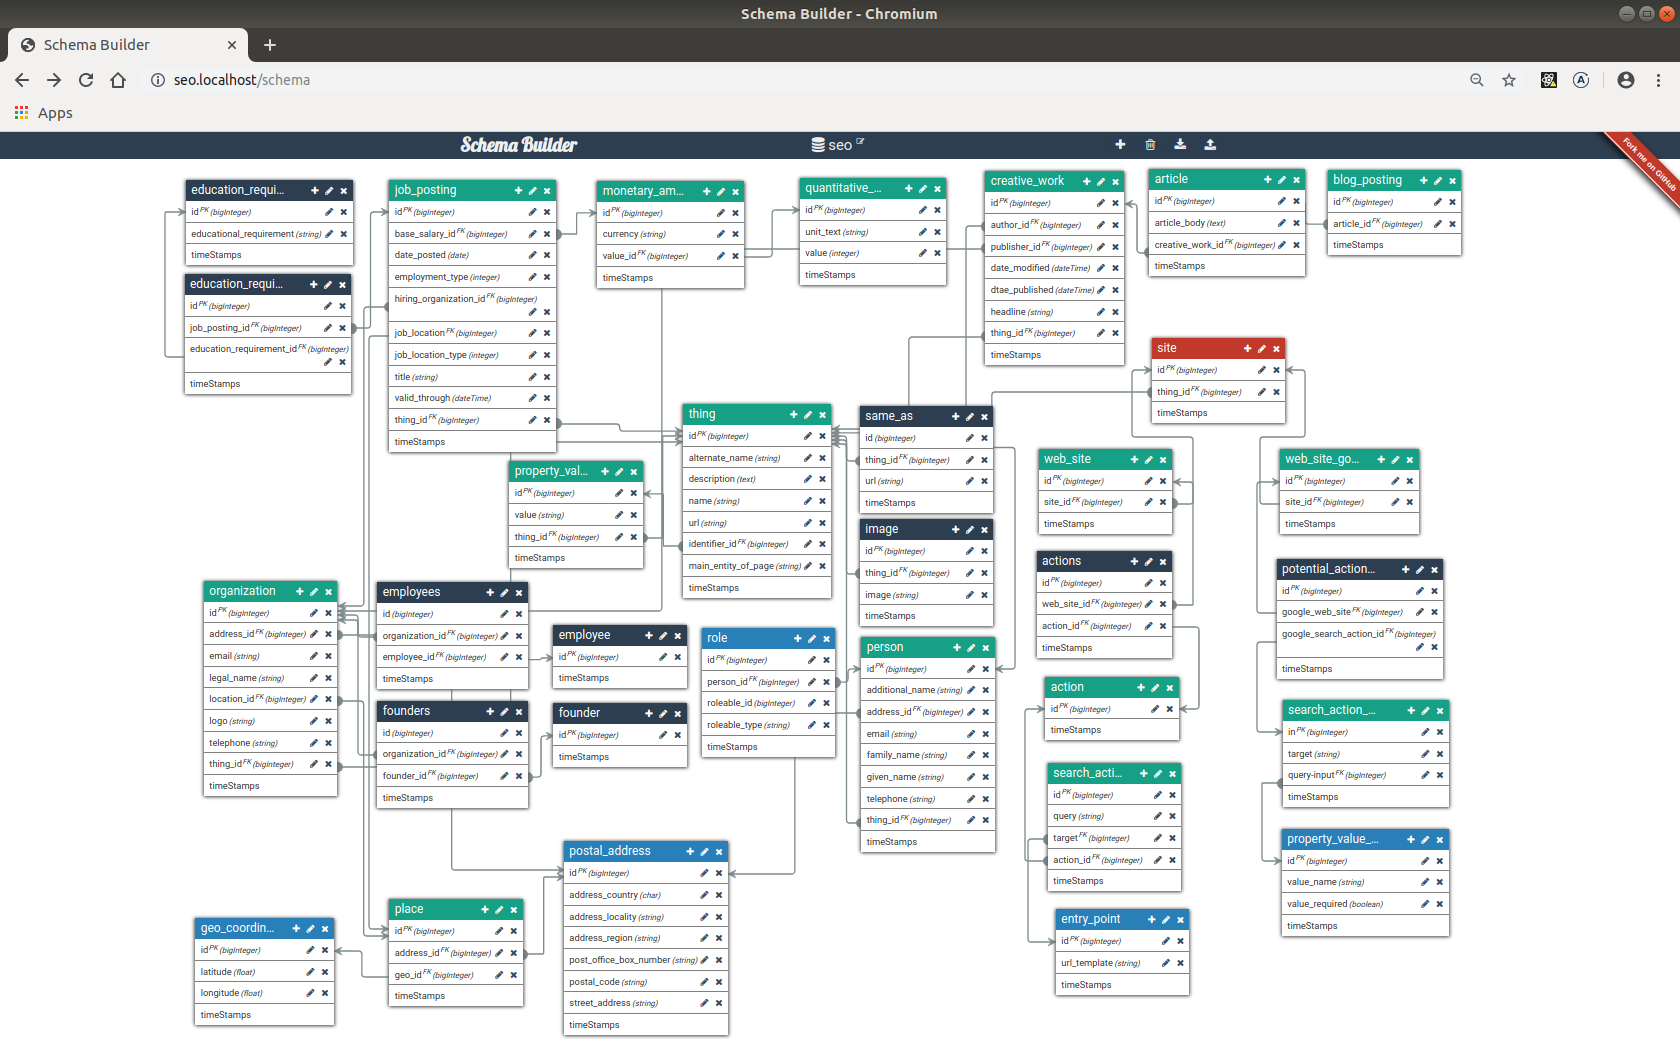
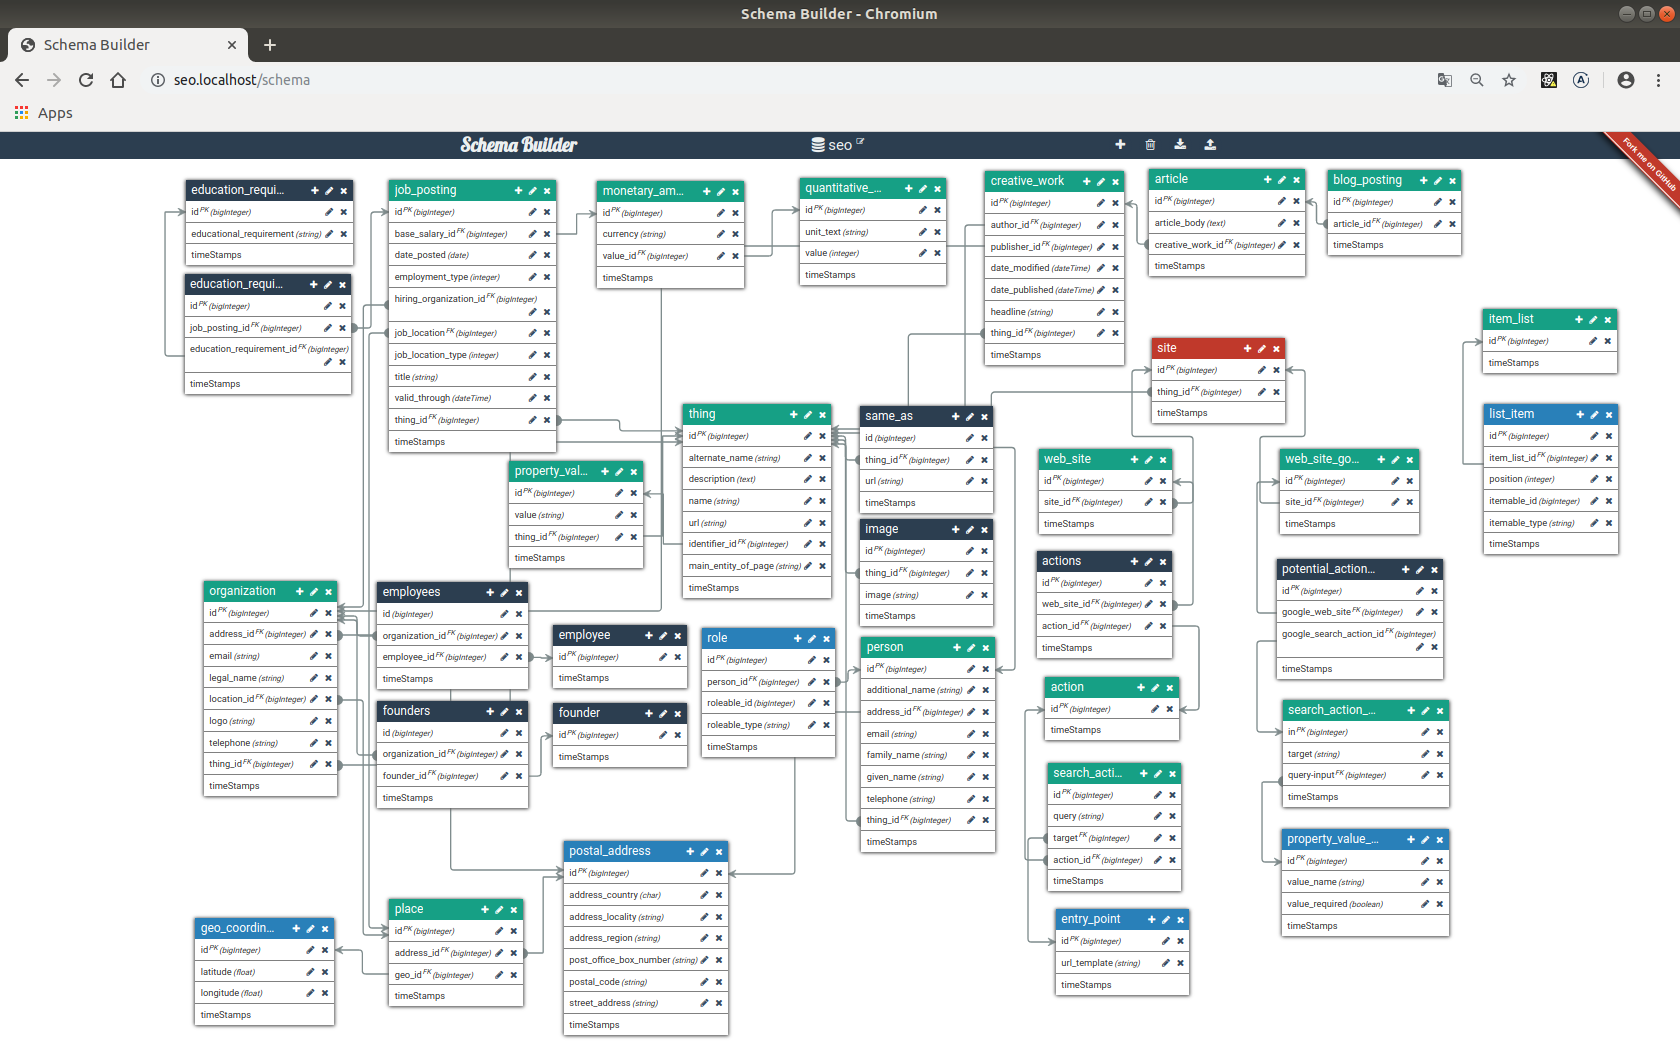
Carousel summary

diff --git a/app/Models/ItemList.php b/app/Models/ItemList.php
@@ -1,0 +1,37 @@
+<?php
+
+namespace App\Models;
+
+use App\Models\Traits\JsonLd;
+use Spatie\SchemaOrg\Schema;
+
+class ItemList extends \App\Models\Base\ItemList
+{
+	use JsonLd;
+
+	public function getSchemaOrgSchemaAttribute()
+	{
+        $listItems = [];
+        foreach($this->list_items()->orderBy('position','asc')->get() as $listItem) {
+            $item = $listItem->itemable;
+            if ($item) {
+                // @todo this should be morphable
+                $url = $listItem->itemable->article->creative_work->thing->main_entity_of_page;
+                $listItems[] = Schema::ListItem()
+                    ->position($listItem->position)
+                    // Thing
+                    ->url($url)
+                ;
+            }
+        }
+
+        return $this->getSchemaOrgNodeIdentifierSchemaAttribute('ItemList', true)
+            ->itemListElement($listItems)
+		;
+	}
+
+	public function getSchemaOrgSchema()
+	{
+		return $this->getSchemaOrgSchemaAttribute();
+	}
+}

diff --git a/routes/web.php b/routes/web.php
@@ -10,6 +10,7 @@
 | contains the "web" middleware group. Now create something great!
 |
 */
+Route::get('/carousel_summary/{itemList}/{field}', 'CarouselSummaryController@field');
 Route::get('/blog_posting/{blog_posting}/{field}', 'BlogPostingController@field');
 Route::get('/job_posting/{job_posting}/{field}', 'JobPostingController@field');
 Route::get('/organization/{organization}/address/{field}', 'OrganizationController@address');

diff --git a/app/Http/Controllers/CarouselSummaryController.php b/app/Http/Controllers/CarouselSummaryController.php
@@ -1,0 +1,14 @@
+<?php
+
+namespace App\Http\Controllers;
+
+use App\Models\ItemList;
+use App\Events\MyEvent;
+
+class CarouselSummaryController extends Controller
+{
+    public function field(ItemList $itemList, String $field)
+    {
+        return $itemList->$field ?? 'not found';
+    }
+}

diff --git a/app/Models/ListItem.php b/app/Models/ListItem.php
@@ -1,0 +1,19 @@
+<?php
+
+namespace App\Models;
+
+class ListItem extends \App\Models\Base\ListItem
+{
+	protected $fillable = [
+		'item_list_id',
+		'position',
+		'itemable_id',
+		'itemable_type'
+	];
+
+
+	public function itemable()
+	{
+		return $this->morphTo();
+	}
+}

diff --git a/readme.md b/readme.md
@@ -27,8 +27,10 @@ See the output
 
 ```chrome view-source: http://seo.localhost/```
 - [Article](https://developers.google.com/search/docs/data-types/article)
-    - [blog_posting/2/schema_org](https://raw.githubusercontent.com/noud/seo/master/database/output/duodeka.blog_posting.2.json)
-    - [blog_posting/3/schema_org](https://raw.githubusercontent.com/noud/seo/master/database/output/duodeka.blog_posting.3.json)
+    - [blog_posting/2/schema_org](https://raw.githubusercontent.com/noud/seo/master/database/output/blog_posting/duodeka.blog_posting.2.json)
+    - [blog_posting/3/schema_org](https://raw.githubusercontent.com/noud/seo/master/database/output/blog_posting/duodeka.blog_posting.3.json)
+- [Carousel](https://developers.google.com/search/docs/data-types/carousel)
+    - [carousel_summary/1/schema_org](https://raw.githubusercontent.com/noud/seo/master/database/output/blog_posting/duodeka.carousel.summary.blog_posting.json)
 - [Job Posting](https://developers.google.com/search/docs/data-types/job-posting)
     - [job_posting/1/schema_org](https://raw.githubusercontent.com/noud/seo/master/database/output/duodeka.job_posting.1.json)
     - [job_posting/2/schema_org](https://raw.githubusercontent.com/noud/seo/master/database/output/duodeka.job_posting.2.json)
